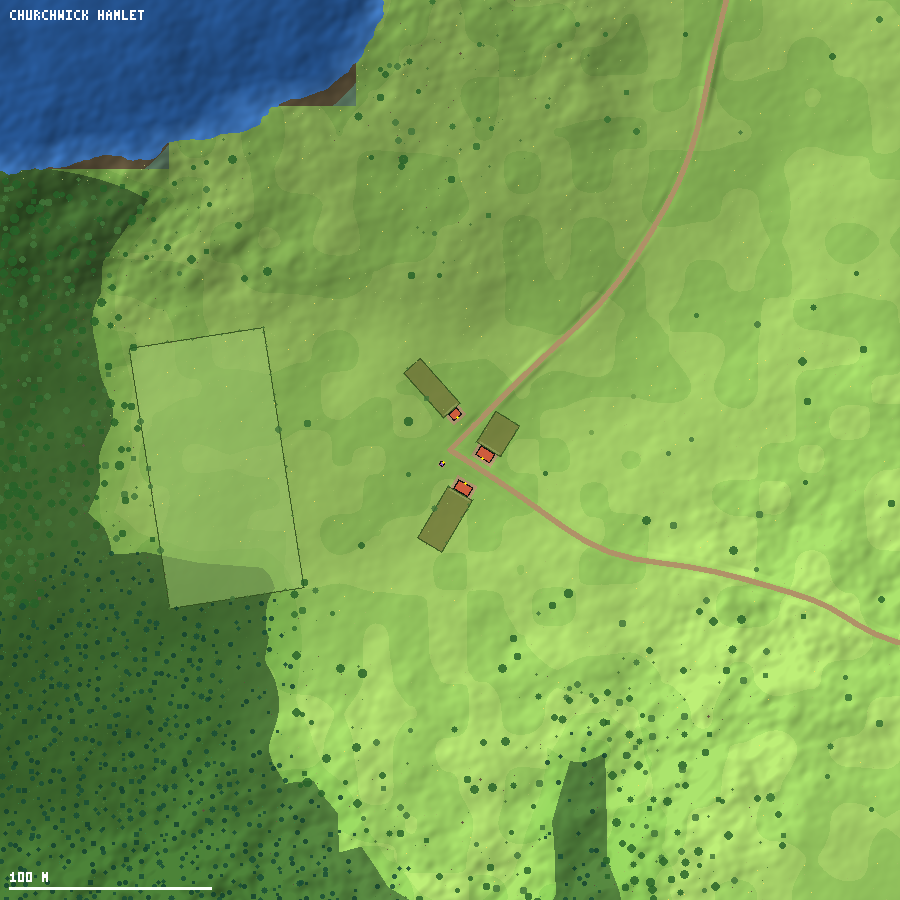
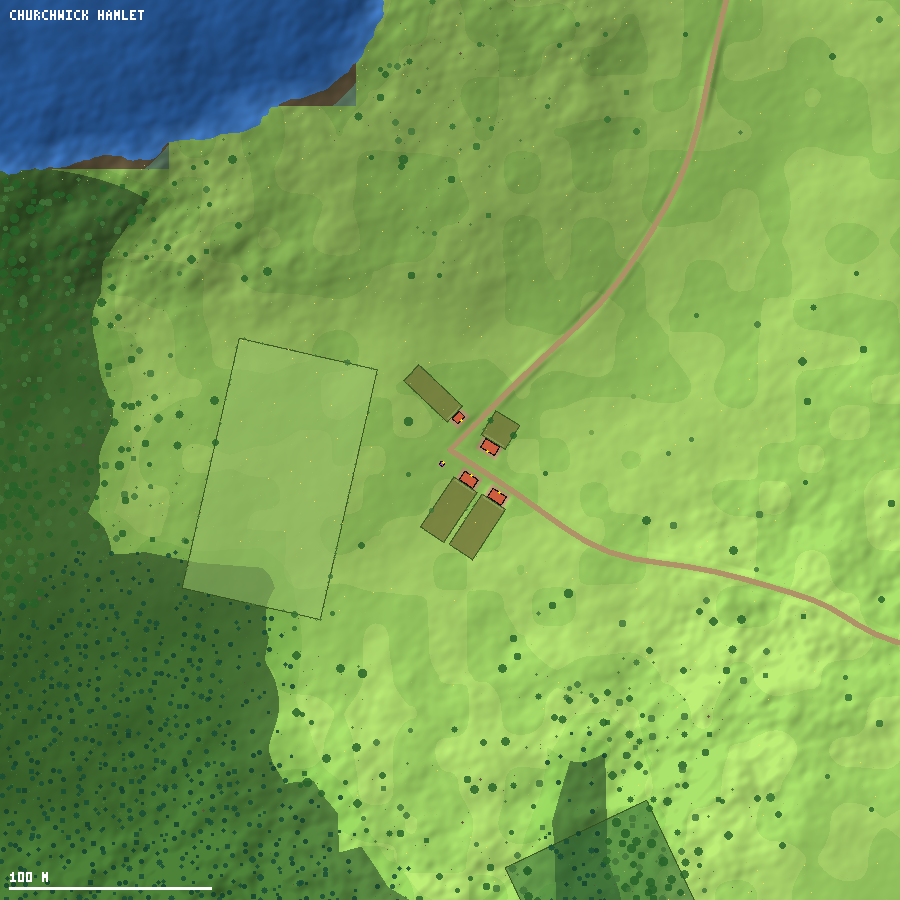
world: rebalance populations (towns and cities about 28 percent) and make town and village layouts robust
Population table: hamlet 14-34, village 66-152, town 135-235, city 245-440.
Layouts: frontage fill skips past blocked stretches instead of giving a side up, towns with fewer
than three streets get a cross plan, topUpHomes branches extra lanes and loosens spacing, gardens
and ground tolerance until the planned homes exist, and a population that the ground cannot
house is fitted down. Island sites need level ground. New validity test pins the balance.

Claude-Session: https://claude.ai/code/session_01P3U377cwAZKJY4Szz9RJL8

diff --git a/src/world/layout/helpers.ts b/src/world/layout/helpers.ts
@@ -2,7 +2,7 @@
 import { BUILDINGS, type BuildingKind } from '../../content/types';
 import { dist, pointInPolygon, type P2 } from '../../core/math';
 import { distPointSeg, obbPoly, makeObb } from '../geom';
-import { STREET_STEP, TAG, frontPose, resampleStreet, type LayoutCtx, type Street, yawOf } from './common';
+import { STREET_STEP, TAG, frontPose, resampleStreet, streetAt, type LayoutCtx, type Street, yawOf } from './common';
 import type { Plot, Road, RoadKind } from '../types';
 
 /**
@@ -239,18 +239,22 @@ export interface FrontageOpts {
   streetFilter?: (i: number) => boolean;
   /** restrict to one side of every street (+1 / -1) */
   sides?: (1 | -1)[];
+  /** ground relief tolerated under one building (m); defaults to the placement rules' own */
+  maxRange?: number;
+  /** clearance beyond the road edge (m); houses may stand close to a lane */
+  roadMargin?: number;
 }
 
 /** Fill street frontage with buildings, nearest to the centre first and round-robin over streets/sides. */
 export function fillFrontage(ctx: LayoutCtx, id: number, streets: Street[], o: FrontageOpts): Plot[] {
   const placed: Plot[] = [];
-  type Slot = { street: Street; side: 1 | -1; s: number; fails: number; limit: number };
+  type Slot = { street: Street; side: 1 | -1; s: number; fails: number; limit: number; skips: number };
   const slots: Slot[] = [];
   streets.forEach((street, i) => {
     if (o.streetFilter && !o.streetFilter(i)) return;
     for (const side of (o.sides ?? [1, -1]) as (1 | -1)[]) {
       const limit = Math.min(o.maxS, street.length - 6);
-      if (limit > o.startS + 8) slots.push({ street, side, s: o.startS + (i > 1 ? 4 : 0), fails: 0, limit });
+      if (limit > o.startS + 8) slots.push({ street, side, s: o.startS + (i > 1 ? 4 : 0), fails: 0, limit, skips: 0 });
     }
   });
   const rng = ctx.rng;
@@ -269,7 +273,7 @@ export function fillFrontage(ctx: LayoutCtx, id: number, streets: Street[], o: F
     const setback = rng.range(o.setback[0], o.setback[1]);
     const pose = frontPose(sl.street, sl.s + def.w / 2, sl.side, setback, def.d);
     const rot = pose.rot + (o.rotJitter ? rng.range(-o.rotJitter, o.rotJitter) : 0);
-    const plot = ctx.place(id, pick.kind, pose.x, pose.z, rot, { role: pick.role, level: pick.level });
+    const plot = ctx.place(id, pick.kind, pose.x, pose.z, rot, { role: pick.role, level: pick.level, maxRange: o.maxRange, roadMargin: o.roadMargin });
     if (plot) {
       placed.push(plot);
       if (o.garden) ctx.parcelBehind(plot, def.w + o.garden.extraWidth, o.garden.maxDepth, o.garden.minDepth);
@@ -278,7 +282,92 @@ export function fillFrontage(ctx: LayoutCtx, id: number, streets: Street[], o: F
     } else {
       sl.s += 5;
       sl.fails++;
+      if (sl.fails > patience && sl.skips < 3 && sl.s + 24 < sl.limit) {
+        // a long blocked stretch (market square, church, workshops): carry on beyond it instead of giving the side up
+        sl.s += 22; sl.fails = 0; sl.skips++;
+      }
     }
   }
   return placed;
+}
+
+
+export interface TopUpOpts {
+  /** homes still missing */
+  need: number;
+  pick: FrontageOpts['pick'];
+  /** settlement centre and how far from it new lanes may start (m) */
+  centre: P2;
+  reach: number;
+  /** keep new lanes inside this outline (town walls) */
+  inside?: P2[];
+  laneKind: RoadKind;
+  maxLanes: number;
+  garden?: FrontageOpts['garden'];
+  /** frontage setbacks of the first round */
+  setback: [number, number];
+}
+
+/**
+ * The last line of defence against thin layouts. While homes are missing, branch more lanes off the streets and lanes,
+ * one at a time (nearest the middle first), fill each one's frontage, and loosen spacing, gardens and ground tolerance a
+ * little more each round, so that a settlement is never left without its homes whatever its streets and ground look like.
+ */
+export function topUpHomes(ctx: LayoutCtx, id: number, roots: Street[], o: TopUpOpts): number {
+  const rng = ctx.rng;
+  let added = 0;
+  let lanesMade = 0;
+  const pool: Street[] = roots.filter((st) => st.length >= 24);
+  for (let round = 0; round < 5 && added < o.need; round++) {
+    const loose = {
+      setback: [Math.max(0.5, o.setback[0] - 0.3 * round), Math.max(1.2, o.setback[1] - 0.4 * round)] as [number, number],
+      gap: [0.4, Math.max(0.8, 2.6 - 0.6 * round)] as [number, number],
+      garden: round >= 2 ? { maxDepth: 12, minDepth: 5, extraWidth: 0.4 } : o.garden,
+      rotJitter: 0.04, patience: 8 + 2 * round, maxRange: [1.9, 2.4, 3.0, 3.6, 4.6][round], roadMargin: 0.6,
+    };
+    // the gaps that tighter spacing and rougher ground leave on the existing frontage
+    if (round >= 1) {
+      added += fillFrontage(ctx, id, pool, { pick: o.pick, count: o.need - added, startS: 5, maxS: 400, ...loose }).length;
+      if (added >= o.need) break;
+    }
+    // candidate branch points along every street, nearest the centre first
+    const spacing = [34, 26, 20, 15, 11][round];
+    const cands: { st: Street; s: number; dir: 1 | -1; key: number }[] = [];
+    for (const st of pool) {
+      for (let s = 12 + rng.range(0, 10); s < Math.min(st.length - 8, o.reach); s += spacing + rng.range(-3, 6)) {
+        for (const dir of [1, -1] as const) cands.push({ st, s, dir, key: s + rng.range(0, 40) });
+      }
+    }
+    cands.sort((a, b) => a.key - b.key);
+    for (const c of cands) {
+      if (added >= o.need || lanesMade >= o.maxLanes + 6 * round) break;
+      const p = streetAt(c.st, c.s);
+      if (o.inside && !pointInPolygon(p.x, p.z, o.inside)) continue;
+      const lane = makeLane(ctx, { x: p.x, z: p.z }, -p.tz * c.dir, p.tx * c.dir, [110, 95, 80, 70, 60][round], o.laneKind, 18, o.inside);
+      if (!lane) continue;
+      const placed = fillFrontage(ctx, id, [lane], { pick: o.pick, count: o.need - added, startS: 5, maxS: 400, ...loose });
+      if (!placed.length) { ctx.discardLastRoad(lane.road); continue; } // a lane that serves no house is not kept
+      lanesMade++;
+      pool.push(lane);
+      added += placed.length;
+    }
+  }
+  if (added > 0) ctx.bump('homes.topup');
+  return added;
+}
+
+/**
+ * A settlement can only hold the people its homes can. When the ground allowed far fewer homes than planned (a cramped
+ * island, a steep shore), the population is brought down to what was built, so that the people simulated there are
+ * not crowded into a handful of houses.
+ */
+export function fitPopulationToHomes(ctx: LayoutCtx, id: number, homes: number, wanted: number): void {
+  if (homes >= wanted * 0.7) return;
+  const site = ctx.s.sites[id], st = ctx.s.settlements[id];
+  const pop = Math.max(8, Math.round(Math.max(homes, 1) * 4.6 * 1.15));
+  if (pop < site.population) {
+    site.population = pop;
+    st.population = pop;
+    ctx.bump('population.fitted');
+  }
 }

diff --git a/src/world/layout/town.ts b/src/world/layout/town.ts
@@ -4,7 +4,7 @@ import { dist, pointInPolygon, type P2 } from '../../core/math';
 import { ccwFromAbove, normAngle, obbPoly, makeObb, segSegIntersect, polylineLength } from '../geom';
 import { TAG, type LayoutCtx, type Street, resampleStreet, streetAt, yawOf } from './common';
 import { castleSpecs, tryCompound, cutRoadsAtCompound } from './castle';
-import { connectToRoad, fillFrontage, incidentStreets, makeLane, placeAtRiver, plotsRadius } from './helpers';
+import { connectToRoad, fillFrontage, incidentStreets, makeLane, placeAtRiver, plotsRadius, topUpHomes } from './helpers';
 import { placeChurch, tryFront } from './village';
 import type { Plot } from '../types';
 
@@ -209,6 +209,15 @@ export function layoutTown(ctx: LayoutCtx, id: number, isCity: boolean): void {
   const streets = incidentStreets(ctx, id, R + 170, 110);
   if (!streets.length) { ctx.bump('town.nostreets'); }
   const inner = R * 0.82;
+  // a town with fewer than three streets gets a cross plan: streets at right angles through the middle, so that its
+  // church, guildhall and workshops do not exhaust the frontage of its only road and burgage plots have somewhere to stand
+  if (streets.length < 3) {
+    const dir0: { tx: number; tz: number } = streets.length ? streetAt(streets[0], Math.min(streets[0].length, 24)) : { tx: Math.cos(id * 1.3), tz: Math.sin(id * 1.3) };
+    for (const dir of [1, -1]) {
+      const lane = makeLane(ctx, { x: cx - dir0.tz * dir * 16, z: cz + dir0.tx * dir * 16 }, -dir0.tz * dir, dir0.tx * dir, R * 0.95, 'track', 40, poly);
+      if (lane) { streets.push(lane); ctx.bump('town.crossstreet'); }
+    }
+  }
 
   // market square along the main street
   let axis: P2 = { x: 1, z: 0 };
@@ -262,19 +271,29 @@ export function layoutTown(ctx: LayoutCtx, id: number, isCity: boolean): void {
   homes += fillFrontage(ctx, id, lanes, { ...common, count: nHomes - homes + Math.round(nHomes * 0.1), startS: 7, maxS: inner * 0.95 }).length;
   homes += fillFrontage(ctx, id, streets, { ...common, count: Math.max(0, nHomes - homes), startS: 12, maxS: inner }).length;
   homes += fillFrontage(ctx, id, ringStreets.streets, { ...common, count: Math.max(0, nHomes - homes), startS: 4, maxS: 400, sides: ringStreets.sides }).length;
-  if (homes < nHomes * 0.8) ctx.bump('town.fewhomes');
+  // still short: more lanes, then looser spacing, gardens and ground tolerance, until the town has its homes
+  if (homes < nHomes * 0.95) {
+    homes += topUpHomes(ctx, id, [...streets, ...lanes, ...ringStreets.streets], {
+      need: Math.ceil(nHomes) - homes, pick: burgage, centre: { x: cx, z: cz }, reach: inner, inside: poly,
+      laneKind: 'path', maxLanes: isCity ? 70 : 40, garden: common.garden, setback: common.setback,
+    });
+  }
 
   // suburbs along the roads outside the gates
   const suburb = (i: number, sFrac: number) => {
     void sFrac;
     return rng.chance(0.2) ? { kind: 'hovel' as BuildingKind, role: 'home_poor', level: 1 } : rng.chance(0.15) ? { kind: 'longhouse' as BuildingKind, role: 'home', level: 1 } : { kind: 'cottage' as BuildingKind, role: 'home', level: 1 + (i % 5 === 0 ? 1 : 0) };
   };
-  const nSub = Math.round(nHomes * 0.16);
+  // (a shortfall of homes inside the walls spills into the suburbs)
+  const deficit = Math.max(0, Math.ceil(nHomes * 0.9) - homes);
+  const nSub = Math.round(nHomes * 0.16) + deficit;
+  let subHomes = 0;
   if (streets.length) {
-    fillFrontage(ctx, id, streets, {
-      pick: suburb, count: nSub, startS: R + 10, maxS: R + 150, setback: [3, 8], gap: [6, 14], garden: { maxDepth: 30, minDepth: 10, extraWidth: 4 }, rotJitter: 0.05,
-    });
+    subHomes = fillFrontage(ctx, id, streets, {
+      pick: suburb, count: nSub, startS: R + 10, maxS: R + 150 + (deficit ? 110 : 0), setback: [3, 8], gap: [6, 14], garden: { maxDepth: 30, minDepth: 10, extraWidth: 4 }, rotJitter: 0.05,
+    }).length;
   }
+  if (homes + Math.min(subHomes, deficit) < nHomes * 0.8) ctx.bump('town.fewhomes');
   // gallows on a rise outside the walls
   let gl: Plot | null = null;
   for (const rr of [R + 70, R + 110, R + 160]) {

diff --git a/src/world/layout/village.ts b/src/world/layout/village.ts
@@ -4,7 +4,7 @@ import { pointInPolygon, type P2 } from '../../core/math';
 import { localToWorld } from '../geom';
 import { TAG, frontPose, type LayoutCtx, type Street, streetAt, yawOf } from './common';
 import {
-  connectToRoad, fillFrontage, incidentStreets, makeLane, placeAround, placeAtRiver, placeWindmill, plotsRadius,
+  connectToRoad, fillFrontage, incidentStreets, makeLane, placeAround, placeAtRiver, placeWindmill, plotsRadius, topUpHomes, fitPopulationToHomes,
 } from './helpers';
 import type { Plot } from '../types';
 
@@ -158,7 +158,7 @@ export function styleFor(culture: string): VillageStyle {
 }
 
 /** A street-less cluster (church, well, cottages in rings facing the middle) for sites too cramped for lanes. */
-function layoutCluster(ctx: LayoutCtx, id: number, nHomes: number, style: VillageStyle, churchLevel: number): void {
+function layoutCluster(ctx: LayoutCtx, id: number, nHomes: number, style: VillageStyle, churchLevel: number): number {
   const site = ctx.s.sites[id];
   const rng = ctx.rng;
   if (!placeChurch(ctx, id, [], churchLevel)) ctx.bump('village.nochurch');
@@ -177,6 +177,8 @@ function layoutCluster(ctx: LayoutCtx, id: number, nHomes: number, style: Villag
     }
   }
   if (placed < nHomes) ctx.bump('village.fewhomes');
+  fitPopulationToHomes(ctx, id, placed, nHomes);
+  return placed;
 }
 
 export function layoutVillage(ctx: LayoutCtx, id: number): void {
@@ -237,7 +239,15 @@ export function layoutVillage(ctx: LayoutCtx, id: number): void {
     if (!lane) continue;
     homes += fillFrontage(ctx, id, [lane], { ...base, count: nHomes - homes, startS: 9, maxS: 110 }).length;
   }
-  if (homes < nHomes) ctx.bump('village.fewhomes');
+  // still short: more lanes, then looser spacing, gardens and ground tolerance
+  if (homes < nHomes) {
+    homes += topUpHomes(ctx, id, streets, {
+      need: nHomes - homes, pick: homeKinds, centre: { x: cx, z: cz }, reach: 200, laneKind: 'path', maxLanes: 16, garden: base.garden, setback: [1.6, 5],
+    });
+  }
+  // (the planned count is population / 4.6, an average: a village within a tenth of it is not short)
+  if (homes < nHomes * 0.9) ctx.bump('village.fewhomes');
+  fitPopulationToHomes(ctx, id, homes, nHomes);
 
   // communal barn and granary at the edge
   tryFront(ctx, id, 'barn', streets, [90, 110, 130, 150], sides, [6, 10], 'storage', 1);
@@ -274,11 +284,15 @@ export function layoutHamlet(ctx: LayoutCtx, id: number): void {
   }
   ctx.reserve(circlePoly(site.x, site.z, 6, 8), id);
   placeAround(ctx, id, 'well', site.x, site.z, [8, 11, 14], 'well', 'centre');
-  fillFrontage(ctx, id, streets, {
-    count: n, startS: 12, maxS: 120,
-    pick: (i) => (i === 0 && rng.chance(0.4) ? { kind: 'longhouse', role: 'home', level: 1 } : rng.chance(0.2) ? { kind: 'hovel', role: 'home_poor', level: 1 } : { kind: 'cottage', role: 'home', level: 1 }),
+  const pickHome = (i: number): { kind: BuildingKind; role: string; level: number } => (i === 0 && rng.chance(0.4) ? { kind: 'longhouse', role: 'home', level: 1 } : rng.chance(0.2) ? { kind: 'hovel', role: 'home_poor', level: 1 } : { kind: 'cottage', role: 'home', level: 1 });
+  let homes = fillFrontage(ctx, id, streets, {
+    count: n, startS: 12, maxS: 120, pick: pickHome,
     setback: [3, 9], gap: [8, 18], garden: { maxDepth: 30, minDepth: 10, extraWidth: 6 }, rotJitter: 0.08,
-  });
+  }).length;
+  if (homes < n) {
+    homes += topUpHomes(ctx, id, streets, { need: n - homes, pick: pickHome, centre: { x: site.x, z: site.z }, reach: 120, laneKind: 'path', maxLanes: 6, garden: { maxDepth: 24, minDepth: 8, extraWidth: 3 }, setback: [2, 6] });
+  }
+  fitPopulationToHomes(ctx, id, homes, n);
   if (rng.chance(0.5)) tryFront(ctx, id, 'barn', streets, [30, 45, 60], [1, -1], [5, 9], 'storage', 1);
   st.radius = Math.max(35, Math.round(plotsRadius(ctx, id, site.x, site.z, 0.95)));
 }

diff --git a/src/world/siting.ts b/src/world/siting.ts
@@ -18,7 +18,7 @@ function cxOf(k: number): number { return ((k % N) + 0.5) * CELL; }
 function czOf(k: number): number { return (Math.floor(k / N) + 0.5) * CELL; }
 
 const POP: Record<SettlementKind, [number, number]> = {
-  hamlet: [12, 32], village: [48, 108], town: [210, 360], city: [520, 820], castle: [28, 70], abbey: [30, 60], priory: [14, 30], nunnery: [16, 36],
+  hamlet: [14, 34], village: [66, 152], town: [135, 235], city: [245, 440], castle: [28, 70], abbey: [30, 60], priory: [14, 30], nunnery: [16, 36],
 };
 
 export function generateSites(s: GenState): void {
@@ -387,14 +387,24 @@ export function generateSites(s: GenState): void {
     const mainLabel = (() => { for (let k = 0; k < NN; k++) if (mainland[k]) return cl[k]; return 0; })();
     for (let c = 1; c < sizes.length; c++) {
       if (c === mainLabel || sizes[c] < 60 || sites.filter((x) => x.island).length >= 4) continue;
-      let best = -1, bs = -Infinity;
+      let best = -1, bs = -Infinity, bestFlat = 0;
       for (let k = 0; k < NN; k++) {
         if (cl[k] !== c || slope[k] > 0.1 || biome[k] === Biome.Beach || biome[k] === Biome.Marsh || coast[k] < 60) continue;
-        const sc = fert(k) + 0.4 * smoothstep(100, 300, coast[k]) * (1 - smoothstep(400, 900, coast[k])) + 0.1 * hash01(k, 2, 5);
-        if (sc > bs) { bs = sc; best = k; }
+        // houses need level ground round the site, not just at it (an island can be a steep cone)
+        const ci = k % N, cj = (k / N) | 0;
+        let flat = 0;
+        for (let dj = -3; dj <= 3; dj++) for (let di = -3; di <= 3; di++) {
+          const ii = ci + di, jj = cj + dj;
+          if (ii < 0 || jj < 0 || ii >= N || jj >= N) continue;
+          const kk = jj * N + ii;
+          if (cl[kk] === c && slope[kk] < 0.08 && biome[kk] !== Biome.Beach && biome[kk] !== Biome.Marsh && coast[kk] > 30) flat++;
+        }
+        if (flat < 8) continue;
+        const sc = fert(k) + 0.4 * smoothstep(100, 300, coast[k]) * (1 - smoothstep(400, 900, coast[k])) + 0.1 * hash01(k, 2, 5) + 0.02 * flat;
+        if (sc > bs) { bs = sc; best = k; bestFlat = flat; }
       }
       if (best < 0) continue;
-      const kind: SettlementKind = sizes[c] > 380 ? 'village' : 'hamlet';
+      const kind: SettlementKind = sizes[c] > 380 && bestFlat >= 26 ? 'village' : 'hamlet';
       const st = addSite(kind, cxOf(best), czOf(best), -1, ['island', 'coast']);
       st.island = true;
     }

diff --git a/tests/world/validity.test.ts b/tests/world/validity.test.ts
@@ -219,6 +219,30 @@ describe.each(SEEDS)('world validity (seed %s)', (seed) => {
     expect(kindsAll.has('watermill')).toBe(true);
   });
 
+  it('population is mostly rural (towns and cities hold about 25-30 %) and every town and village gets its homes', () => {
+    let total = 0, urban = 0;
+    for (const st of w.settlements) { total += st.population; if (st.kind === 'town' || st.kind === 'city') urban += st.population; }
+    expect(total).toBeGreaterThan(13000);
+    expect(total).toBeLessThan(16000);
+    expect(urban / total).toBeGreaterThan(0.25);
+    expect(urban / total).toBeLessThan(0.31);
+    // towns and cities rank above villages, villages above hamlets, by mean population
+    const mean = (k: string): number => { const a = w.settlements.filter((x) => x.kind === k); return a.reduce((t, x) => t + x.population, 0) / Math.max(1, a.length); };
+    expect(mean('city')).toBeGreaterThan(mean('town'));
+    expect(mean('town')).toBeGreaterThan(mean('village'));
+    expect(mean('village')).toBeGreaterThan(mean('hamlet'));
+    // the layout never comes up short: no town below 80 % of its planned homes, and next to no village
+    expect(w.diagnostics['town.fewhomes'] ?? 0).toBe(0);
+    expect(w.diagnostics['village.fewhomes'] ?? 0).toBeLessThanOrEqual(1);
+    const HOMES = new Set(['townhouse', 'cottage', 'hovel', 'longhouse']);
+    for (const st of w.settlements) {
+      if (st.kind !== 'town' && st.kind !== 'city' && st.kind !== 'village') continue;
+      const planned = st.kind === 'village' ? Math.max(4, Math.min(34, Math.round(st.population / 4.6))) : Math.round(st.population / 4.6);
+      const homes = st.plots.filter((p) => HOMES.has(w.plots[p].kind)).length;
+      expect(`${st.kind} ${st.name}: ${homes} homes of ${planned}`).toSatisfy(() => homes >= Math.floor(planned * 0.7));
+    }
+  });
+
   it('towns and cities are walled with gates, market squares and a cathedral in each city; castles and abbeys have their compounds', () => {
     const has = (s: (typeof w.settlements)[number], k: string) => s.plots.some((p) => w.plots[p].kind === k);
     for (const t of w.settlements.filter((s) => s.kind === 'town' || s.kind === 'city')) {

diff --git a/src/world/layout/common.ts b/src/world/layout/common.ts
@@ -290,6 +290,14 @@ export class LayoutCtx {
     return r;
   }
 
+  /** Drop the road that was added last (a lane that turned out to serve nothing). Returns false when it is not the last one. */
+  discardLastRoad(roadId: number): boolean {
+    if (roadId !== this.s.roads.length - 1) return false;
+    this.roadIdx.removeRoad(roadId);
+    this.s.roads.pop();
+    return true;
+  }
+
   /** Replace a road's polyline (e.g. cut at a castle gate) keeping indexes consistent. */
   setRoadPoints(road: Road, points: P2[]): void {
     this.roadIdx.removeRoad(road.id);
